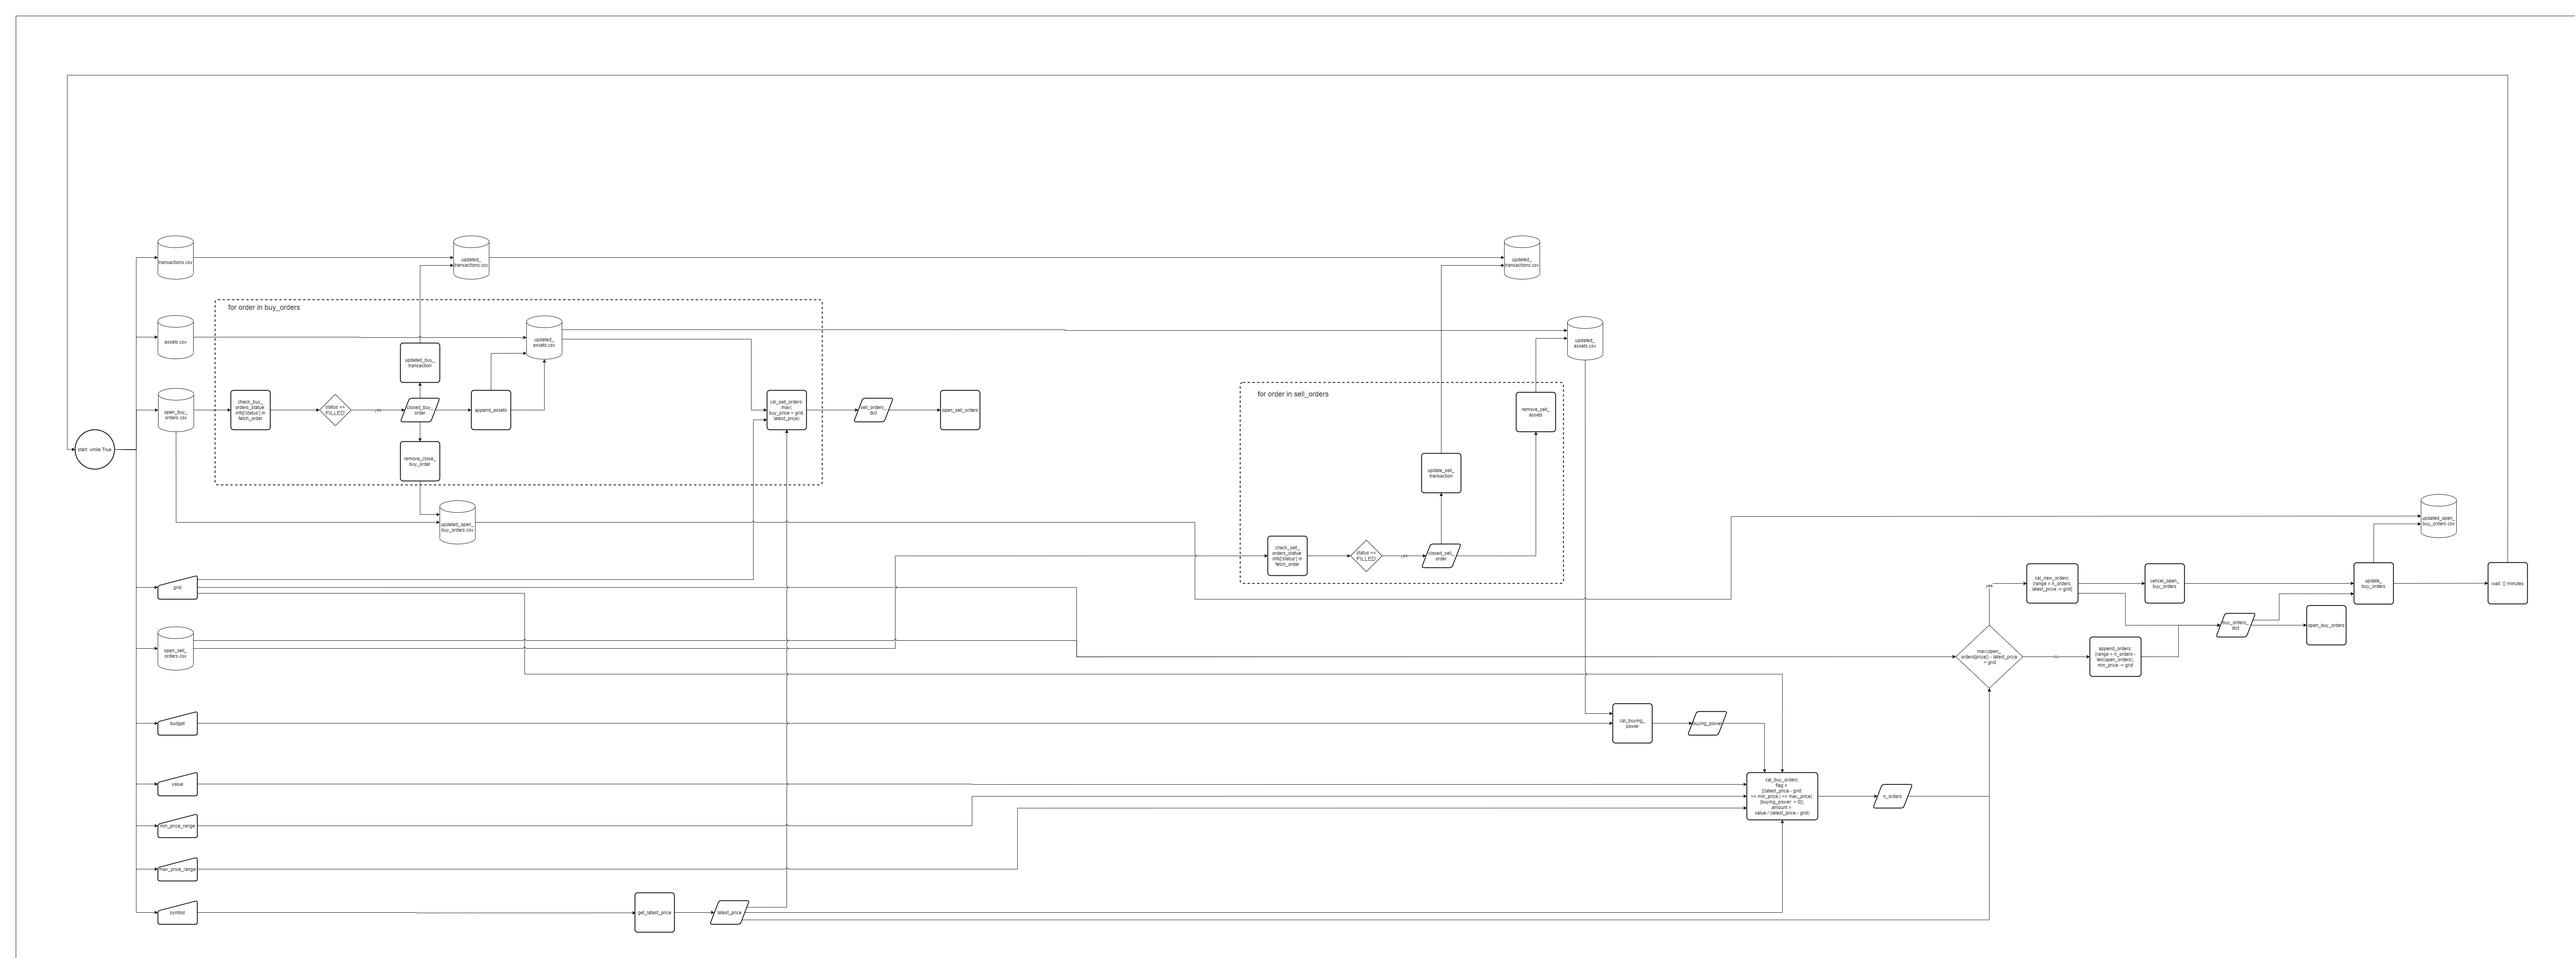
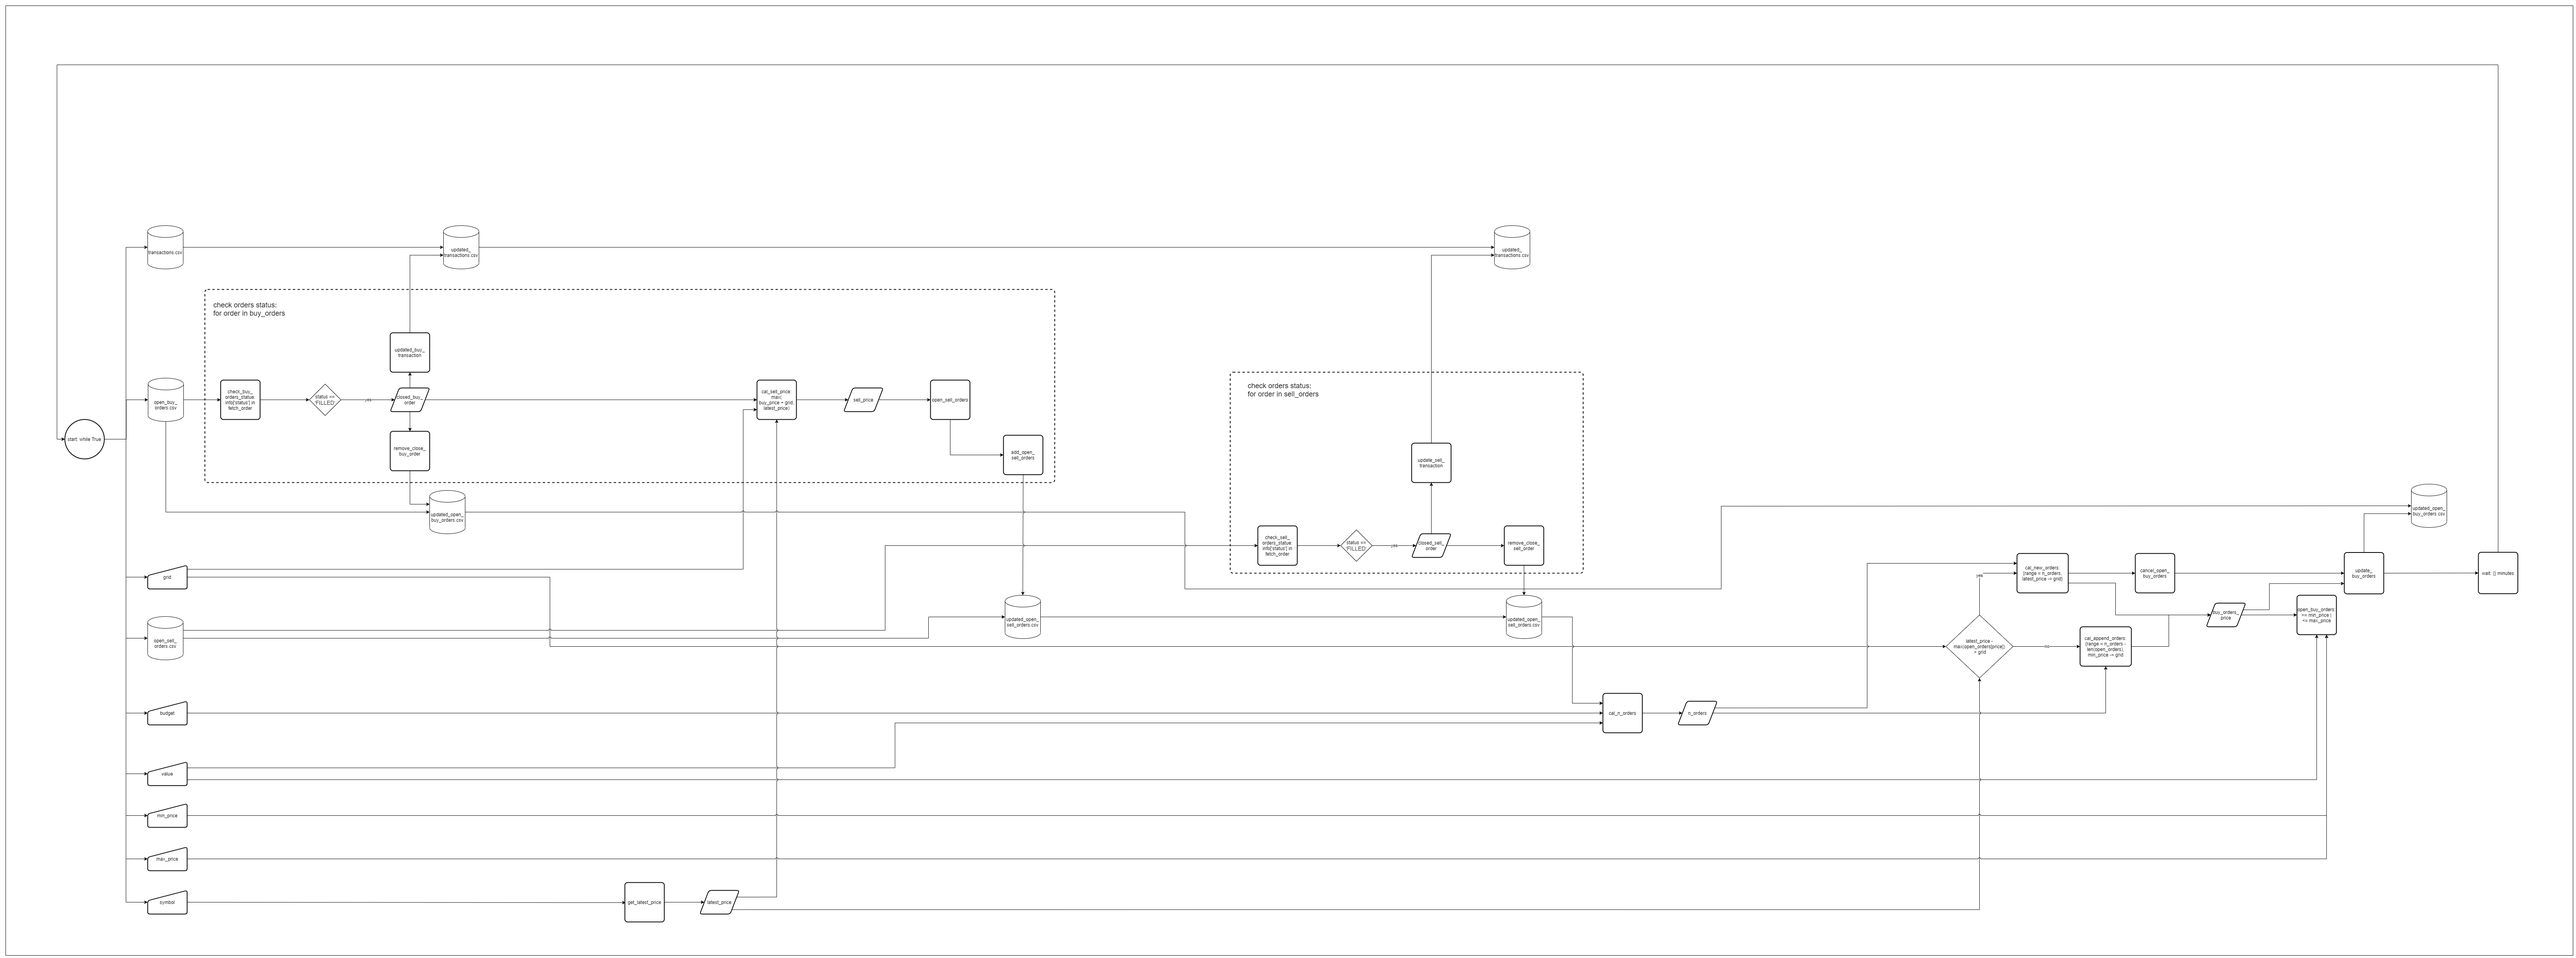
revise flow

diff --git a/func_order.py b/func_order.py
@@ -1,53 +1,90 @@
 import datetime as dt
+import time
+
+from func_cal import *
 
 
-def remove_close_orders(open_orders_list, orders_df, symbol):
-    orders_df_clean = orders_df[orders_df['id'].isin(open_orders_list)]
-    orders_df_clean = orders_df_clean.reset_index(drop = True)
-
-    return orders_df_clean
-    
-
-def cancel_invalid_buy_orders(exchange, orders_df, cancel_orders_price_list):
-    # only valid when price rise
-
-    buy_oders_df = orders_df[orders_df['type'] == 'buy']
-
-    buy_oders_df_filt = buy_oders_df[buy_oders_df['price'].isin(cancel_orders_price_list)]
-    cancel_buy_orders_list = buy_oders_df_filt['id'].to_list()
-
-    for order in cancel_buy_orders_list:
-        exchange.cancel_order('{}'.format(order))
-
-    orders_df_clean = orders_df[~orders_df['id'].isin(cancel_buy_orders_list)]
-    orders_df_clean = orders_df_clean.reset_index(drop = True)
-
-    return orders_df_clean
-
-
-def update_df(df, order, symbol, value):
-    timestamp = dt.datetime.now()
+def append_df(df, order, symbol, value):
+    timestamp = order['datetime']
     order_id = order['id']
-    order_type = order['order_type']
-    side = order['side']
+    order_type = order['type']
+    order_side = order['side']
     amount = order['amount']
     price = order['price']
 
-    df.loc[len(df)] = [timestamp, order_id, symbol, order_type, side, amount, price, value]
+    df.loc[len(df)] = [timestamp, order_id, symbol, order_type, order_side, amount, price, value]
 
     return df
 
 
-def open_buys_order(exchange, orders_df, transcations_df, new_orders_price_list, symbol, grid, value):
-    for price in new_orders_price_list:
-        amount = value / price
-        buy_order = exchange.create_order(symbol, order_type = 'limit', side = 'buy', amount = amount, price = price)
-        sell_order = exchange.create_order(symbol, order_type = 'limit', side = 'sell', amount = amount, price = price + grid) # move sell orders to start
+def remove_df(df, order_id):
+    df = df[df['order_id'] != order_id]
+    df = df.reset_index(drop = True)
 
-        orders_df = update_df(orders_df, buy_order, symbol, value)
-        orders_df = update_df(orders_df, sell_order, symbol, value) # move sell orders to start
+    return df
 
-        transcations_df = update_df(transcations_df, buy_order, symbol, value)
-        transcations_df = update_df(transcations_df, sell_order, symbol, value) # move sell orders to start
+
+def open_sell_order(exchange, order, symbol, sell_price):
+    amount = order['amount']
+    amount = cal_fee(amount)
+    sell_order = exchange.create_order(symbol, 'limit', 'sell', amount, sell_price)
+    print('Open sell {} {} at {} USDT'.format(amount, symbol.split('/')[0], sell_price))
+
+    return sell_order
+
+
+def check_orders_statue(exchange, side, symbol, grid, value, latest_price, open_orders_df, transcations_df):
+    open_orders_list = open_orders_df[open_orders_df['side'] == side]['order_id'].to_list()
     
-    return orders_df, transcations_df
+    for order_id in open_orders_list:
+        order = exchange.fetch_order(order_id, symbol)
+        if order['info']['status'] == 'FILLED':
+            order_id = order['id']
+            open_orders_df = remove_df(open_orders_df, order_id)
+            transcations_df = append_df(transcations_df, order, symbol, value)
+
+            # open sell orders after buy orders filled
+            if side == 'buy':
+                sell_price = cal_sell_price(order, grid, latest_price)
+                sell_order = open_sell_order(exchange, order, symbol, sell_price)
+                open_orders_df = append_df(open_orders_df, sell_order, symbol, value)
+
+    return open_orders_df, transcations_df
+
+
+def cancel_open_buy_orders(exchange, symbol, open_orders_df):
+    open_buy_orders_df = open_orders_df[open_orders_df['side'] == 'buy']
+    open_buy_orders_list = open_buy_orders_df['order_id'].to_list()
+
+    for order_id in open_buy_orders_list:
+        cancel_order = exchange.cancel_order(order_id, symbol)
+        amount = cancel_order['amount']
+        sell_price = cancel_order['price']
+        print('Cancel buy {} {} at {} USDT'.format(amount, symbol.split('/')[0], sell_price))
+        open_orders_df = remove_df(open_orders_df, order_id)
+
+    return open_orders_df
+
+
+def open_buy_orders(exchange, n_order, n_sell_order, symbol, grid, value, latest_price, min_price, max_price, open_orders_df, transcations_df):
+    open_buy_orders_df = open_orders_df[open_orders_df['side'] == 'buy']
+    try:
+        max_open_buy_price = max(open_buy_orders_df['price'])
+    except ValueError: # for 0 open orders
+        max_open_buy_price = 0
+
+    if latest_price - max_open_buy_price > grid:
+        open_orders_df = cancel_open_buy_orders(exchange, symbol, open_orders_df)
+        buy_price_list = cal_new_orders(n_order, grid, latest_price)
+    else:
+        buy_price_list = cal_append_orders(n_order, n_sell_order, grid, open_buy_orders_df)
+
+    buy_price_list = price_range(buy_price_list, min_price, max_price)
+
+    for price in buy_price_list:
+        amount = value / price
+        buy_order = exchange.create_order(symbol, 'limit', 'buy', amount, price)
+        open_orders_df = append_df(open_orders_df, buy_order, symbol, value)
+        print('Open buy {} {} at {} USDT'.format(amount, symbol.split('/')[0], price))
+
+    return open_orders_df, transcations_df

diff --git a/func_cal.py b/func_cal.py
@@ -1,42 +1,57 @@
 import numpy as np
 
 
-def cal_buying_power(budget, orders_df):
-    sell_orders_df = orders_df[orders_df['type'] == 'sell']
-    hold_value = sell_orders_df['value'].sum()
-    buying_power = budget - hold_value
+def cal_fee(amount):
+    # not provide on binance api
+    final_amount = amount * (0.1 / 100)
 
-    return buying_power
+    return final_amount
 
 
-def cal_buy_orders(latest_price, grid, value, buying_power):
-    buy_orders_price_list = []
-    n_order = int(np.floor(buying_power / value))
+def cal_sell_price(order, grid, latest_price):
+    buy_price = order['price']
+    sell_price = max(buy_price + grid, latest_price)
+
+    return sell_price
+
+
+def cal_n_order(open_orders_df, budget, value):
+    open_sell_orders_df = open_orders_df[open_orders_df['side'] == 'sell']
+    n_sell_order = len(open_sell_orders_df)
+    max_n_order = int(budget / value)
+    n_order = max_n_order - n_sell_order
+
+    return n_order, n_sell_order
+
+
+def cal_new_orders(n_order, grid, latest_price):
+    buy_price_list = []
+    buy_price = latest_price - grid
     
     for _ in range(n_order):
-        latest_price -= grid
-        buy_orders_price_list.append(latest_price)
+        buy_price_list.append(buy_price)
+        buy_price -= grid
 
-    return buy_orders_price_list, n_order
+    return buy_price_list
 
 
-def organize_buy_orders(orders_df, buy_orders_price_list, n_order, latest_price, grid):
-    buy_oders_df = orders_df[orders_df['type'] == 'buy']
-    current_orders_price_list = buy_oders_df['price'].to_list()
+def cal_append_orders(n_order, n_sell_order, grid, open_buy_orders_df):
+    try:
+        min_open_buy_price = min(open_buy_orders_df['price'])
+    except ValueError: # for 0 open orders
+        min_open_buy_price = 0
 
-    if latest_price > (max(current_orders_price_list) - grid):
-        # when price rise, cancel all current orders and send new orders
-        cancel_orders_price_list = current_orders_price_list.copy()
-        new_orders_price_list = buy_orders_price_list.copy()
-    else:
-        # when price drop, continue from current orders
-        cancel_orders_price_list = [x for x in current_orders_price_list if x > latest_price]
-        len_current_orders = len([x for x in current_orders_price_list if x <= latest_price])
-        
-        new_orders_price_list = []
-        buy_price = current_orders_price_list[-1]
-        for _ in range(n_order - len_current_orders):
-            buy_price -= grid
-            new_orders_price_list.append(buy_price)
+    buy_price_list = []
+    buy_price = min_open_buy_price - grid
 
-    return cancel_orders_price_list, new_orders_price_list
+    for _ in range(n_order - n_sell_order):
+        buy_price_list.append(buy_price)
+        buy_price -= grid
+
+    return buy_price_list
+
+
+def price_range(buy_price_list, min_price, max_price):
+    buy_price_list = [x for x in buy_price_list if min_price <= x <= max_price]
+
+    return buy_price_list

diff --git a/main.py b/main.py
@@ -5,31 +5,34 @@ from func_get import *
 from func_cal import *
 from func_order import *
 
-keys_path = '_keys/binance_keys.json'
+config_system_path = 'config_system.json'
 config_params_path = 'config_params.json'
+keys_path = '_keys/binance_keys.json'
+open_orders_df_path = 'open_orders.csv'
 transcations_df_path = 'transactions.csv'
-orders_df_path = 'orders.csv'
 
     
-def run_bot(keys_path = keys_path, config_params_path = config_params_path, transcations_df_path = transcations_df_path, orders_df_path = orders_df_path):
+def run_bot(idle_stage, keys_path = keys_path, config_params_path = config_params_path, transcations_df_path = transcations_df_path, open_orders_df_path = open_orders_df_path):
     exchange = get_exchange(keys_path)
-    budget, grid, value, symbol = get_config_params(config_params_path)
-    transcations_df = get_transactions_df(transcations_df_path)
-    orders_df = get_orders_df(orders_df_path, symbol)
-    open_orders_list = get_open_oders(exchange, symbol)
-
-    orders_df = remove_close_orders(open_orders_list, orders_df, symbol)
-
+    open_orders_df = pd.read_csv(open_orders_df_path)
+    transcations_df = pd.read_csv(transcations_df_path)
+    symbol, budget, grid, value, min_price, max_price = get_config_params(config_params_path)
     latest_price = get_latest_price(exchange, symbol)
-    buying_power = cal_buying_power(budget, orders_df)
-    buy_orders_price_list, n_order = cal_buy_orders(latest_price, grid, value, buying_power)
-    cancel_orders_price_list, new_orders_price_list = organize_buy_orders(orders_df, buy_orders_price_list, n_order, latest_price, grid)
+    open_orders_df, transcations_df = check_orders_statue(exchange, 'buy', symbol, grid, value, latest_price, open_orders_df, transcations_df)
+    time.sleep(idle_stage)
+    open_orders_df, transcations_df = check_orders_statue(exchange, 'sell', symbol, grid, value, latest_price, open_orders_df, transcations_df)
+    time.sleep(idle_stage)
+    n_order, n_sell_order = cal_n_order(open_orders_df, budget, value)
+    open_orders_df, transcations_df = open_buy_orders(exchange, n_order, n_sell_order, symbol, grid, value, latest_price, min_price, max_price, open_orders_df, transcations_df)
 
-    orders_df = cancel_invalid_buy_orders(exchange, orders_df, cancel_orders_price_list)
-    orders_df, transcations_df = open_buys_order(exchange, orders_df, transcations_df, new_orders_price_list, symbol, grid, value)
-
-    return None
-
+    return open_orders_df, transcations_df
 
 if __name__ == "__main__":
-    run_bot()
+    run_flag = True
+    while run_flag == True:
+        print('bot run')
+        run_flag, idle_stage, idle_loop = get_config_system(config_system_path)
+        open_orders_df, transcations_df = run_bot(idle_stage)
+        open_orders_df.to_csv(open_orders_df_path, index = False)
+        transcations_df.to_csv(transcations_df_path, index = False)
+        time.sleep(idle_loop)

diff --git a/func_get.py b/func_get.py
@@ -1,49 +1,45 @@
 import pandas as pd
+import datetime as dt
+from dateutil import tz
 import json
 import ccxt
 
 
-def get_exchange(keys_path):
-    with open(keys_path) as keys_file:
-        keys_dict = json.load(keys_file)
-    exchange = ccxt.binance(keys_dict)
+def get_config_system(config_system_path):
+    with open(config_system_path) as config_file:
+        config_system = json.load(config_file)
 
-    return exchange
+    run_flag = config_system['run_flag']
+    idle_stage = config_system['idle_stage']
+    idle_loop = config_system['idle_loop']
+
+    return run_flag, idle_stage, idle_loop
 
 
 def get_config_params(config_params_path):
     with open(config_params_path) as config_file:
         config_params = json.load(config_file)
 
+    symbol = config_params['symbol']
     budget = config_params['budget']
     grid = config_params['grid']
     value = config_params['value']
-    symbol = config_params['symbol']
+    min_price = config_params['min_price']
+    max_price = config_params['max_price']
 
-    return budget, grid, value, symbol
-
-
-def get_transactions_df(transcations_df_path):
-    transcations_df = pd.read_csv(transcations_df_path)
-
-    return transcations_df
+    return symbol, budget, grid, value, min_price, max_price
 
 
-def get_orders_df(orders_df_path, symbol):
-    orders_df = pd.read_csv(orders_df_path)
-    orders_df = orders_df[orders_df['symbol'] == symbol]
+def get_exchange(keys_path):
+    with open(keys_path) as keys_file:
+        keys_dict = json.load(keys_file)
+    
+    exchange = ccxt.binance({'apiKey': keys_dict['apiKey'],
+                             'secret': keys_dict['secret'],
+                             'enableRateLimit': True,
+                             'options': {'newOrderRespType': 'FULL'}})
 
-    return orders_df
-
-
-def get_open_oders(exchange, symbol):
-    open_orders = exchange.fetch_open_orders(symbol)
-
-    open_orders_list = []
-    for order in open_orders:
-        open_orders_list.append(order['id'])
-
-    return open_orders_list
+    return exchange
 
 
 def get_latest_price(exchange, symbol):
@@ -51,3 +47,21 @@ def get_latest_price(exchange, symbol):
     latest_price = ticker['last']
 
     return latest_price
+
+
+def convert_tz(utc):
+    from_zone = tz.tzutc()
+    to_zone = tz.tzlocal()
+    utc = utc.replace(tzinfo=from_zone).astimezone(to_zone)
+    
+    return utc
+
+
+def get_time(datetime_raw):
+    datetime_str, _, us = datetime_raw.partition('.')
+    datetime_utc = dt.datetime.strptime(datetime_str, '%Y-%m-%dT%H:%M:%S')
+    us = int(us.rstrip('Z'), 10)
+
+    datetime_th = convert_tz(datetime_utc)
+    
+    return datetime_th + dt.timedelta(microseconds = us)
